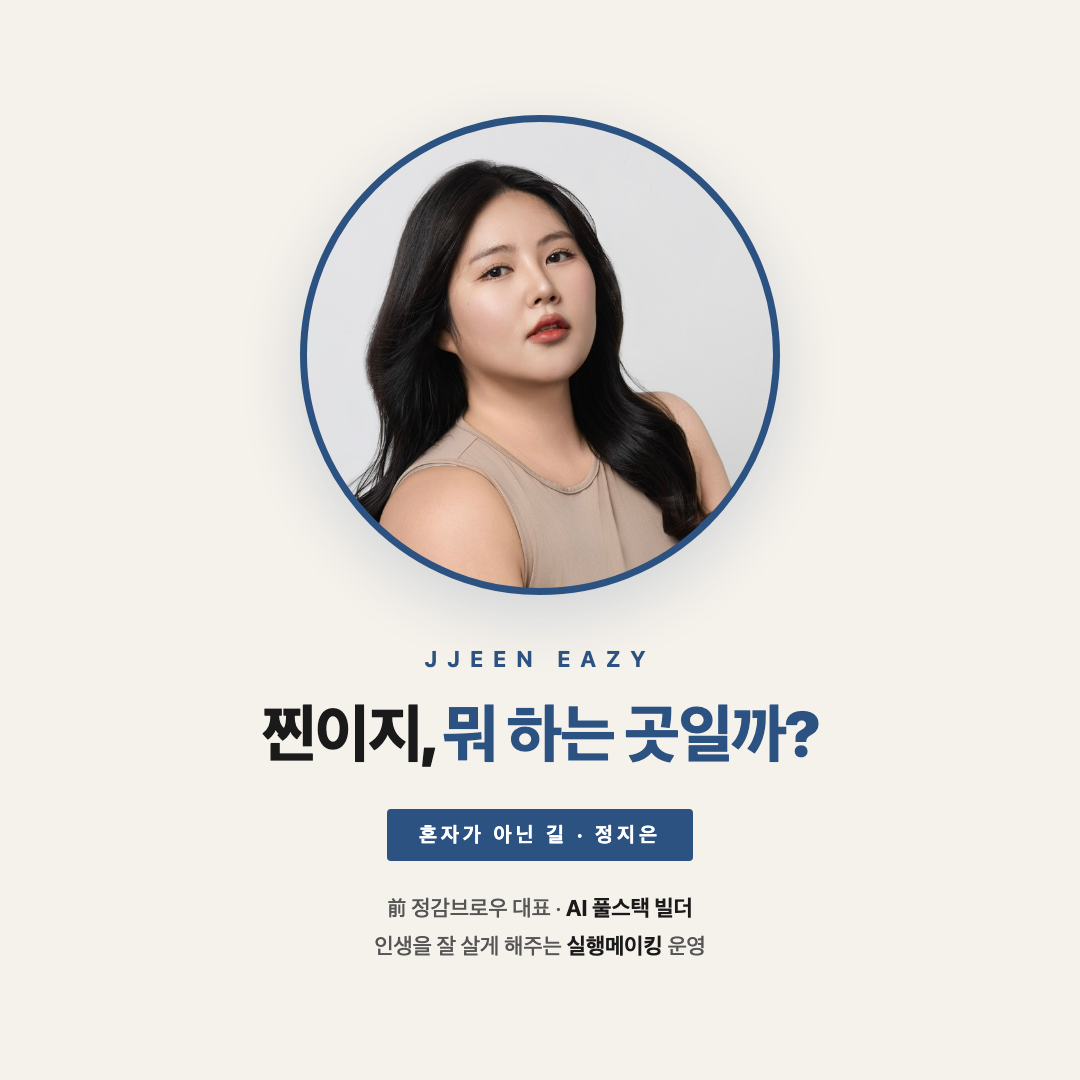
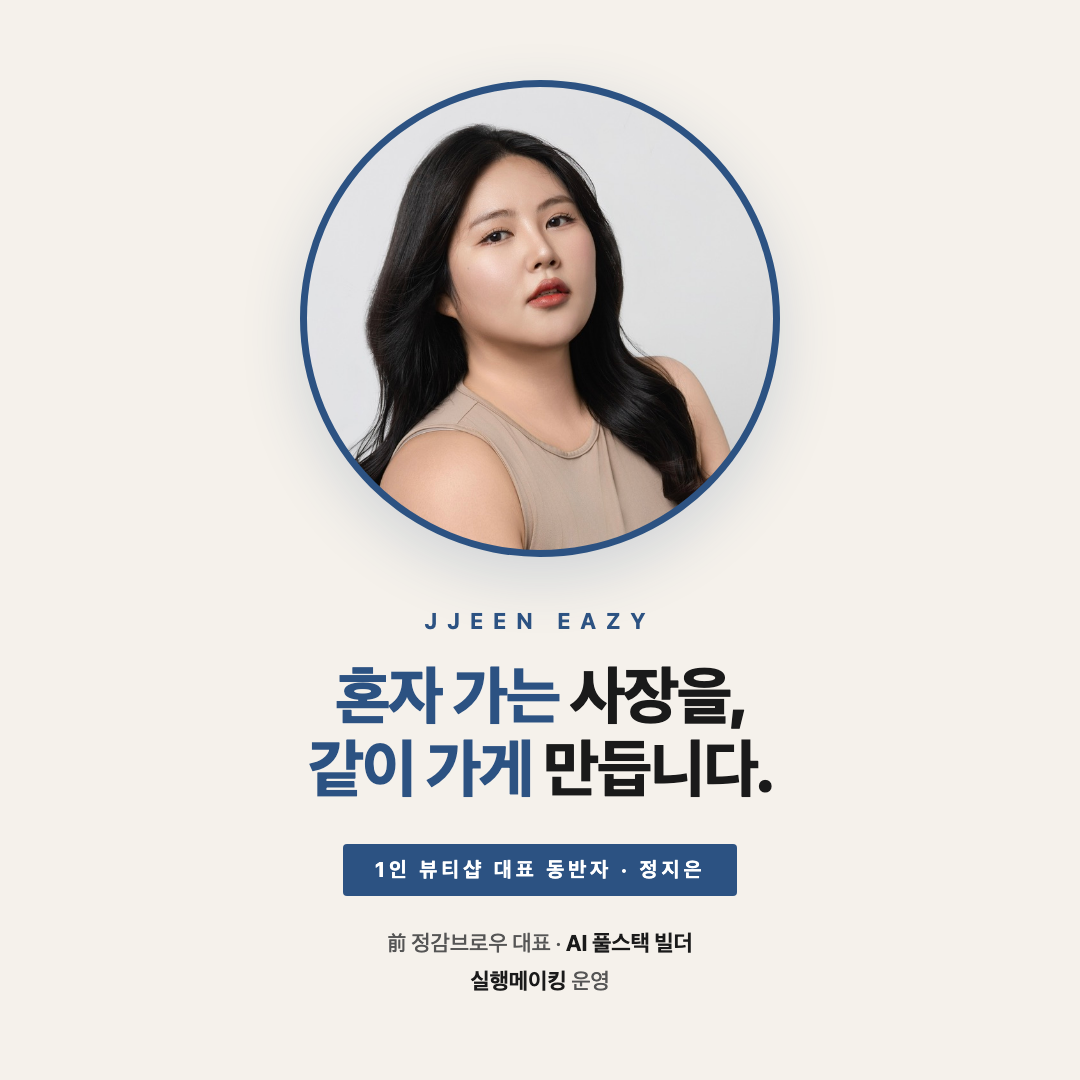
Rewrite card 1: 정체성 직접 - 혼자 가는 사장을 같이 가게 만듭니다

Changed region(s): [[0.2444, 0.0611, 0.7639, 0.9167]]

diff --git a/thumbnail-final.html b/thumbnail-final.html
@@ -81,11 +81,11 @@
     <div class="card">
         <div class="photo-circle"></div>
         <div class="brand-row">jjeen eazy</div>
-        <h2>찐이지, <span class="accent">뭐 하는 곳일까?</span></h2>
-        <div class="role">혼자가 아닌 길 · 정지은</div>
+        <h2><span class="accent">혼자 가는</span> 사장을,<br><span class="accent">같이 가게</span> 만듭니다.</h2>
+        <div class="role">1인 뷰티샵 대표 동반자 · 정지은</div>
         <p class="desc">
             前 정감브로우 대표 · <strong>AI 풀스택 빌더</strong><br>
-            인생을 잘 살게 해주는 <strong>실행메이킹</strong> 운영
+            <strong>실행메이킹</strong> 운영
         </p>
     </div>
 </body>
